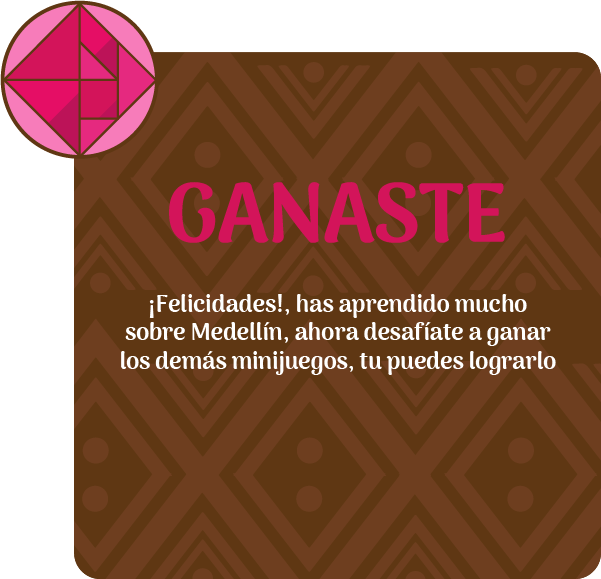
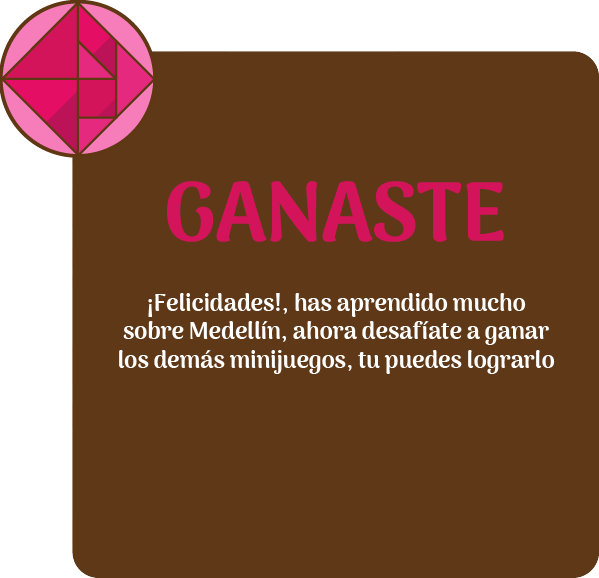
commit

diff --git a/index.html b/index.html
@@ -13,7 +13,7 @@
 
 <body>
 
-    <section class="backgroundInitial ocultar">
+    <section class="backgroundInitial ">
         <div class="nameApp">
             <img src="img/Título.png" class="titule"></img>
         </div>
@@ -22,8 +22,8 @@
             <input type="image" src="img/Jugar_btn.png" class="playPrincipal"></input>
         </div>
         <div>
-            <input type="image" src="img/sonido_btn.png" class="musicPrincipal"></input>
-            <input type="image" src="img/Créditos_btn.png" class="creditsPrincipal"></input>
+            <input type="image" src="img/on_inicio_bt.png" class="musicPrincipal"></input>
+            <input type="image" src="img/creditos_bt.png" class="creditsPrincipal"></input>
         </div>
     </section>
     <section class="intro1 ocultar">
@@ -236,28 +236,51 @@
     <!-- FIN CONCENTRATE -->
 
     <!-- Puzzle beginning -->
-    <section class="puzzle backgroundSection ocultar">
-        <img src="img/Kila.png" class="killaPuzzle"></img>
-        <img src="img/atras_btn.png" class="btnAtrasPuzzle"></img>
-        <img src="img/sonido_btn.png" class="btnSonidoPuzzle"></img>
 
-        <section class="intro backgroundSection ocultar">
-            <img src="img/rompecabezas.png" class="puzzle_text"></img>
-            <img src="img/Jugar_btn.png" class="btnJugarPuzzle"></img>
+        <section id="introPuzzle" class="backgroundSection ocultar">
+                <div class="BtnInitialhomePuzle">
+                        <input type="image" src="img/home_bt.png"></input>
+                </div>
+                <div class="btnInitialSonidoPuzzle">
+                        <input type="image" src="img/on_bt.png"></input>
+                </div>
+            <div class="contenTitulePuzzle">
+                 <img src="img/rompecabezas_txt.png" class="puzzle_text"></img>
+            </div>   
+            <div class="playInitial">
+                 <input type="image" src="img/Jugar_btn.png" onclick="changePage('DevelopPuzzle','introPuzzle')"></input>
+            </div> 
+            <div class="backInitial">
+                    <input type="image" src="img/volver_bt.png"></input>
+            </div>
+            <div class="gifPuzzle">
+                    <img src="img/minitutorial_rompecabezas.gif">
+            </div>
+            <div class="kilaInitialPuzzle">
+                
+                    <img src="img/kila_r.png" class="kilaInitialPuzzle">
+            </div>      
 
         </section>
 
-        <section id="GanarPuzzle" class="ganar backgroundSection ocultar">
-            <img src="img/ganaste_rompecabezas.png" class="Lose"></img>
-            <img src="img/Jugar_btn.png" class="btnJugarPuzzle ganar"></img>
+        <section id="GanarPuzzle" class="backgroundSection ocultar">
+                <div class="BtnWinhomePuzle">
+                        <input type="image" src="img/home_bt.png"></input>
+                </div>
+                <div class="btnWinSonidoPuzzle">
+                        <input type="image" src="img/on_bt.png"></input>
+                </div>
+                <div class="textWin">
+                        <img src="img/ganaste_rompecabezas.png" class="Lose"></img>
+                        <img src="img/juegaotra_bt.png" class="ubicationButton" onclick="changePage('DevelopPuzzle','GanarPuzzle')"></img>
+                </div>
+                <div class="kilaWin">
+                    <img src="img/Kila.png" alt="">
+                </div>
+            
         </section>
 
-        <section class="perder backgroundSection ocultar">
-            <img src="img/perdiste_rompecabezas.png" class="win"></img>
-            <img src="img/Jugar_btn.png" class="btnJugarPuzzle perder"></img>
-        </section>
-    </section>
-    <section id="DevelopPuzzle">
+    <section id="DevelopPuzzle" class="ocultar">
         <div class="titulePuzzle">
             <div class="ImgPuzzle">
                 <img src="img/rompecabezas_titulo.png">
@@ -267,12 +290,12 @@
                 <input type="image" src="img/home_bt.png"></input>
         </div>
         <div class="btnSonidoPuzzle">
-                <input type="image" src="img/sonido_btn.png"></input>
+                <input type="image" src="img/on_bt.png"></input>
         </div>
         <div class="tableGamePuzzle">
             
                 <svg width="100%" height="100%" id="entrono">
-                    <g><image xlink:href="img/imagen1_rompecabezas.png" width="439" height="440" x="55" y="65"></g>
+                    <g><image xlink:href="img/imagen1_rompecabezas.png" width="439" height="440" x="40" y="35"></g>
                         <g class="padre" id="0"><image xlink:href="img/pieza 1.png" class="movil"></image></g>
                         <g class="padre" id="1"><image xlink:href="img/pieza 2.png" class="movil"></image></g>
                         <g class="padre" id="2"><image xlink:href="img/pieza 3.png" class="movil"></image></g>

diff --git a/js/main.js b/js/main.js
@@ -3,59 +3,59 @@ function changePage(idIn, idOut) {
     document.getElementById(idIn).classList.remove("ocultar");
 }
 var piezas=document.getElementsByClassName('movil');
-var tamWidth=[114,111,111,112,114,111,111,112,114,111,111,112,114,111,111,112];
+var tamWidth=[115,114,114,114,115,114,114,114,115,116,118,114,115,114,114,114];
 var tamHeight=[110,110,110,110,110,110,110,110,110,110,110,110,110,110,110,110];
 for(var i=0;i<piezas.length;i++){
     piezas[i].setAttribute("width", tamWidth[i]);
     piezas[i].setAttribute("height",tamHeight[i]);
-        if(i==0){
+        if(i==9){
             piezas[i].setAttribute("x",520);
-            piezas[i].setAttribute("y", 35);
-        }else if(i==1){
+            piezas[i].setAttribute("y", 15);
+        }else if(i==12){
             piezas[i].setAttribute("x",642);
-            piezas[i].setAttribute("y", 35);
-        }else if(i==2){
-            piezas[i].setAttribute("x", 767);
-            piezas[i].setAttribute("y", 35);
-        }else if(i==3){
-            piezas[i].setAttribute("x",892);
-            piezas[i].setAttribute("y", 35);
-        }else if(i==4){
-            piezas[i].setAttribute("x",520);
-            piezas[i].setAttribute("y", 163); 
-        }else if(i==5){
-            piezas[i].setAttribute("x",642);
-            piezas[i].setAttribute("y", 163);
+            piezas[i].setAttribute("y", 15);
         }else if(i==6){
+            piezas[i].setAttribute("x", 767);
+            piezas[i].setAttribute("y", 15);
+        }else if(i==0){
+            piezas[i].setAttribute("x",892);
+            piezas[i].setAttribute("y", 15);
+        }else if(i==1){
+            piezas[i].setAttribute("x",520);
+            piezas[i].setAttribute("y", 135); 
+        }else if(i==15){
+            piezas[i].setAttribute("x",642);
+            piezas[i].setAttribute("y", 135);
+        }else if(i==11){
             piezas[i].setAttribute("x",767);
-            piezas[i].setAttribute("y", 163);
+            piezas[i].setAttribute("y", 135);
         }else if(i==7){
             piezas[i].setAttribute("x",892);
-            piezas[i].setAttribute("y", 163);
-        }else if(i==8){
+            piezas[i].setAttribute("y", 135);
+        }else if(i==3){
             piezas[i].setAttribute("x",520);
-            piezas[i].setAttribute("y", 290);
-        }else if(i==9){
-            piezas[i].setAttribute("x",642);
-            piezas[i].setAttribute("y", 290);
-        }else if(i==10){
-            piezas[i].setAttribute("x",767);
-            piezas[i].setAttribute("y", 290);
-        }else if(i==11){
-            piezas[i].setAttribute("x",892);
-            piezas[i].setAttribute("y", 290);
-        }else if(i==12){
-            piezas[i].setAttribute("x",520);
-            piezas[i].setAttribute("y", 418);
+            piezas[i].setAttribute("y", 255);
         }else if(i==13){
             piezas[i].setAttribute("x",642);
-            piezas[i].setAttribute("y", 418);
+            piezas[i].setAttribute("y", 255);
+        }else if(i==5){
+            piezas[i].setAttribute("x",767);
+            piezas[i].setAttribute("y", 255);
+        }else if(i==2){
+            piezas[i].setAttribute("x",892);
+            piezas[i].setAttribute("y", 255);
+        }else if(i==4){
+            piezas[i].setAttribute("x",520);
+            piezas[i].setAttribute("y", 380);
+        }else if(i==10){
+            piezas[i].setAttribute("x",642);
+            piezas[i].setAttribute("y", 380);
         }else if(i==14){
             piezas[i].setAttribute("x",767);
-            piezas[i].setAttribute("y", 418);
-        }else if(i==15){
+            piezas[i].setAttribute("y", 380);
+        }else if(i==8){
             piezas[i].setAttribute("x",892);
-            piezas[i].setAttribute("y", 418);
+            piezas[i].setAttribute("y", 380);
         }         
     piezas[i].addEventListener("touchstart",seleccionarElemento,false);
 }
@@ -107,8 +107,8 @@ function reordenar(evt){
     return entrono.lastChild.firstChild;
 
 }
-var origX=[53,164,275,383,53,164,274,382,53,164,275,382,53,164,274,382];
-var origY=[65,65,65,65,174,174,174,174,285,285,285,285,392,392,392,392];
+var origX=[37,148,259,370,37,148,259,370,37,147,257,370,37,148,259,370];
+var origY=[35,35,35,35,145,145,145,145,255,255,255,255,365,365,365,365];
 function iman(){
     for(var i=0;i<piezas.length;i++){
         if(Math.abs(currentPosx-origX[i])<15 && Math.abs(currentPosy-origY[i])<15){

diff --git a/css/puzzle.css b/css/puzzle.css
@@ -3,34 +3,39 @@
     padding: 0;
     text-align: center;
     height: 100%;
-    background-image: url('../img/Fondo_cafe.png');
+    background-image: url('../img/Repite.png');
 }
 .nameApp{
     width: 100%;
     height: 0%;
 }
 .titule{
-    width: 100%;
-    height: auto
+    width: 70%;
 }
 .playPrincipal{
+    outline: 0;
+    border: 0;
     position: fixed;
     left: 42%;
-    top: 57%;
+    top: 47%;
 }
 .musicPrincipal{
+    outline: 0;
+    border: 0;
     position: fixed;
     left: 42%;
-    top: 85%;
+    top: 78%;
 }
 .creditsPrincipal{
+    outline: 0;
+    border: 0;
     position: fixed;
     left: 53%;
-    top: 87%;
+    top: 78%;
 }
 .childrens{
     position: absolute;
-    top: 0%;
+    top: -11%;
     right: 0%;
     width: 100%;
     height: auto;
@@ -84,10 +89,8 @@
 
 .puzzle_text{
     position: fixed;
-    top: 13%;
+    top: 11%;
     left: 18%;
-    width: 485px;
-    height: 364px;
 }
 .btnJugarPuzzle{
     position: fixed;
@@ -126,10 +129,8 @@
 }
 .Lose{
     position: fixed;
-    top: 13%;
+    top: 10%;
     left: 12%;
-    width: 598px;
-    height: 578px;
 }
 .win{
     position: fixed;
@@ -152,24 +153,25 @@
     margin-top: 7px;
 }
 .ImgPuzzle{
-    margin-top: 22px;
+    margin-top: 10px;
     text-align: center;
 }
 .BtnhomePuzle{
     float: left;
     position: fixed;
-    top: 30px;
+    top: 12px;
     left: 46px;
 }
 .btnSonidoPuzzle{
     position: fixed;
-    top: 30px;
-    left: 87%;
+    top: 11px;
+    left: 89%;
 }
 .tableGamePuzzle{
-    margin-top: -15px;
+    border-radius: 0 0 34px 34px;
+    margin-top: -7px;
     width: 92%;
-    height: 80%;
+    height: 78%;
     background-image: url(../img/fondo_rompecabezas.png);
     background-repeat: no-repeat;
     margin-left: 49px;  
@@ -180,4 +182,60 @@
 .entrono{
     position: fixed;
     overflow: hidden;
+}
+.BtnInitialhomePuzle{
+    float: left;
+    position: fixed;
+    top: 12px;
+    left: 46px;
+}
+.btnInitialSonidoPuzzle{
+    position: fixed;
+    bottom: 88%;
+    left: 88%;
+    width: 65px;
+    height: 70px;
+}
+.playInitial{
+    position: fixed;
+    top: 62%;
+    left: 28%;
+}
+.backInitial{
+    position: fixed;
+    top: 81%;
+    left: 8%;
+}
+.kilaInitialPuzzle{
+    position: fixed;
+    top: 56%;
+    left: 60%;
+}
+.gifPuzzle{
+    position: fixed;
+    top: 13%;
+    left: 63%;
+}
+.BtnWinhomePuzle{
+    float: left;
+    position: fixed;
+    top: 12px;
+    left: 46px;
+}
+.btnWinSonidoPuzzle{
+    position: fixed;
+    bottom: 88%;
+    left: 88%;
+    width: 65px;
+    height: 70px;
+}
+.kilaWin{
+    position: fixed;
+    top:30%;
+    left: 69%;
+}
+.ubicationButton{
+    position: fixed;
+    top:70%;
+    left: 35%;
 }
